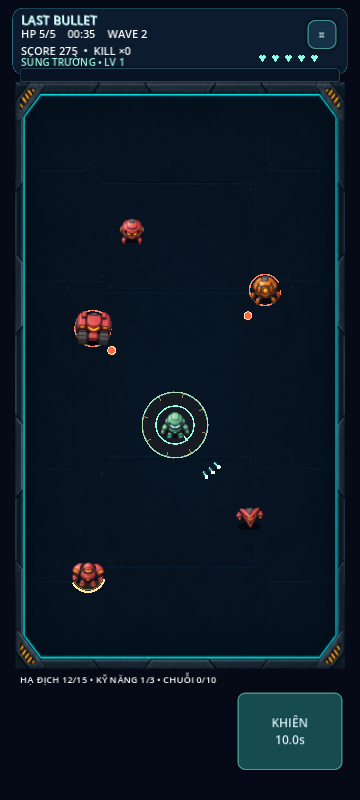
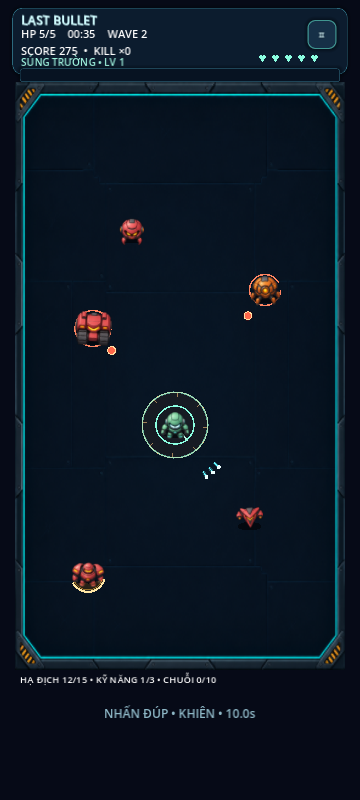
feat: hide skill button and activate robot skills with double tap

Changed region(s): [[0.4889, 0.8438, 0.9778, 0.9688], [0.275, 0.875, 0.4583, 0.9062]]

diff --git a/last-bullet/docs/SHOOTER.md b/last-bullet/docs/SHOOTER.md
@@ -1,6 +1,6 @@
 # v0.8 shooter implementation
 
-The approved change replaces permanent-bullet Deflect combat with auto-aim/auto-fire and a robot skill button. Seven weapon profiles and seven skills live in scripts/combat.gd. No Deflect/capture/return-strike path remains in live combat; scripts/bullet.gd now holds static cosmetic preview helpers only.
+The approved change replaces permanent-bullet Deflect combat with auto-aim/auto-fire and double-tap robot skills. Seven weapon profiles and seven skills live in scripts/combat.gd. No Deflect/capture/return-strike path remains in live combat; scripts/bullet.gd now holds static cosmetic preview helpers only.
 
 ## Simulation and bounds
 Friendly shots have finite range/lifetime, swept enemy/wall collision, ordered contacts, finite piercing/chaining and per-shot hit IDs. Target selection chooses the nearest visible enemy in weapon range. Chain targeting respects walls. Cobalt skill missiles turn at a capped rate and splash locally. Enemy shots use swept player/wall collision; their red/orange appearance distinguishes them from friendly rounds. Enemy ranged units and bosses have a short charge ring before firing.
@@ -19,3 +19,11 @@ Missions are kills 15, skills used 3 and kill-chain 10, each paying 15 gold+1 ti
 
 ## Validation
 Current automated suites: shooting, shooter_campaign, shooter_stress, admin_mobile, robots, summon, graphics, lobby, results, upgrade_ui. Historical Deflect-only tests moved to tests/legacy with .gdignore and are not counted as passing. Shooter stress simulates 630s across seven max-upgrade robots plus 90s Blitz; campaign exercises all five active timelines and bosses. See TEST_RESULTS.md for scope/limitations.
+
+## Double-tap skill controls (latest)
+
+Skill button removed. Two short taps in the same blank area activate the skill on second release, <=330ms apart and <=48 logical pixels apart; each contact <=220ms and <12px movement. Long holds, canceled touches, drags (including drag returning to origin), distant/slow pairs, simultaneous fingers and GUI contacts do not qualify. A second finger can double-tap while another continues dragging movement. Emulated mouse events from touch are ignored; desktop real mouse taps and Space remain supported.
+
+Only unhandled blank-area presses become tap candidates; global input observes movement/releases to cancel gestures even when they end over GUI. Pause/menu/upgrade/run transitions clear candidates so stale taps cannot carry over. Existing skill cooldown and state guards are authoritative. A passive status label shows cooldown, consumes no input, and hides outside active gameplay.
+
+New tests/double_tap.gd covers recognition, cooldown, drag/jitter/hold/cancel/time/distance rejection, simultaneous vs sequential taps, continuous movement plus second-finger skill, UI/state boundaries and emulated input. Also rechecked shooting, admin_mobile, upgrade_ui, graphics and lobby. Rendered hidden-button layout at 360×800. Physical Android gesture feel still awaits user confirmation.

diff --git a/last-bullet/docs/SESSION_HANDOFF.md b/last-bullet/docs/SESSION_HANDOFF.md
@@ -6,7 +6,7 @@ Repository tai23082004l02-svg/LAST-BULLET, branch main. Project: last-bullet/pro
 Vietnamese user, tests on Samsung S23 Ultra using Godot Android and Termux/Git. Confirmed clone/import/run and portrait worked in prior sessions. Close Godot project before pull. Local repo: ~/storage/downloads/GodotProjects/LAST-BULLET. Read ANDROID_TERMUX.md for exact commands/safe.directory fix. Do not ask them to download ZIP again. Do not reset/clean/discard their local changes to fix pull; inspect and preserve first.
 
 ## Approved gameplay change
-User found deflect gameplay boring and approved full transition to auto-aim/auto-fire survival shooter, seven robot weapons/skills, new gun upgrades and boss patterns. v0.8 implements this. Drag anywhere on blank screen to move; tap alone does nothing, 12-pixel drag threshold; special buttons excluded. Skill replaces Deflect, Space on PC. Do not restore left-only movement, tap-to-move, permanent bullet or Perfect missions.
+User found deflect gameplay boring and approved full transition to auto-aim/auto-fire survival shooter, seven robot weapons/skills, new gun upgrades and boss patterns. v0.8 implements this. Drag anywhere on blank screen to move; tap alone does nothing, 12-pixel drag threshold; special buttons excluded. Skill replaces Deflect; latest control is double-tap at the same blank area, Space on PC. The skill button has been removed. Do not restore left-only movement, tap-to-move, permanent bullet or Perfect missions.
 
 Read SHOOTER.md for exact rules, bounds and migration; README for player-facing controls/robot table. Five campaign stages and existing summon/skin/robot progress are retained. Eight new weapon upgrades. Missions: kill15, skill3, chain10. Stars: win, HP3+, finish within 60s of scheduled boss arrival. Local admin from avatar, separate save, all content, god/max-upgrades/no-skill-cooldown/labs. No server account implied.
 
@@ -28,3 +28,6 @@ Godot 4.6.3 Linux automated tests plus Xvfb/Mesa visual captures. tests/legacy c
 
 ## Next step
 Ship v0.8 to main, ask user to close Godot/pull/reopen and playtest. Gameplay tuning feedback may follow; no further unapproved feature is assumed. Older docs/previews remain historical; current README/SHOOTER.md govern combat.
+
+## Latest control request
+User asked to hide skill UI and activate by double tap. Implemented: two quick short taps in the same area use skill; normal drag-anywhere movement remains unchanged. A single tap/long hold/drag does not fire skill. A second finger may double-tap while the first keeps moving. Pause/menus/upgrades are excluded; cooldown retained. Small passive cooldown text replaces the button. See SHOOTER.md and tests/double_tap.gd. Do not reintroduce an on-screen skill button unless user asks.

diff --git a/last-bullet/README.md b/last-bullet/README.md
@@ -6,7 +6,7 @@ Godot 4 portrait robot survival shooter. Open `last-bullet/project.godot` from t
 ## Chơi trên điện thoại
 Kéo ở bất kỳ vùng trống nào để di chuyển. Chạm đơn không kích hoạt; cần ẩn xuất hiện sau khi kéo ít nhất 12 pixel logic. Robot tự chọn địch gần trong tầm có đường bắn thông thoáng và tự bắn cả khi di chuyển. Đạn bạn màu sáng; né đạn đỏ/cam và vùng báo động của địch.
 
-Bấm nút kỹ năng bên phải (Space trên PC). WASD/phím mũi tên di chuyển, Esc tạm dừng, F11 fullscreen cửa sổ desktop. Đã bỏ hoàn toàn gameplay Deflect, Perfect và viên đạn tồn tại mãi của v0.7.
+Nhấn đúp nhanh tại cùng một vùng trống để dùng kỹ năng (Space trên PC). Nút skill đã được ẩn; dòng nhỏ phía dưới chỉ báo sẵn sàng/hồi chiêu và không chặn kéo. Một lần chạm, kéo hoặc giữ lâu không kích hoạt skill. WASD/phím mũi tên di chuyển, Esc tạm dừng, F11 fullscreen cửa sổ desktop. Đã bỏ hoàn toàn gameplay Deflect, Perfect và viên đạn tồn tại mãi của v0.7.
 
 ## Robot, vũ khí và kỹ năng
 | Robot | Vũ khí | Kỹ năng |

diff --git a/README.md b/README.md
@@ -2,7 +2,7 @@
 
 Robot survival shooter for portrait mobile, Godot 4 (validated 4.6.3).
 
-**Auto-aim + auto-fire**, drag anywhere except buttons to move, one robot skill button. Replaces Deflect/permanent-bullet gameplay. Seven robot weapons/skills, eight gun upgrades, five campaign bosses, Survival/cover arenas and 90-second Blitz. Existing robots, skins, summon inventory/pity and campaign progress are retained; new shooter scores stored separately.
+**Auto-aim + auto-fire**, drag anywhere except buttons to move, double-tap robot skills. Replaces Deflect/permanent-bullet gameplay. Seven robot weapons/skills, eight gun upgrades, five campaign bosses, Survival/cover arenas and 90-second Blitz. Existing robots, skins, summon inventory/pity and campaign progress are retained; new shooter scores stored separately.
 
 [Player guide](last-bullet/README.md) · [Shooter mechanics](last-bullet/docs/SHOOTER.md) · [Campaign & Summon](last-bullet/docs/CAMPAIGN_SUMMON.md) · [Tests](last-bullet/docs/TEST_RESULTS.md)
 

diff --git a/last-bullet/docs/TEST_RESULTS.md b/last-bullet/docs/TEST_RESULTS.md
@@ -1,3 +1,9 @@
+# Double-tap control patch — 2026-11-05
+
+Skill button removed; skill activated by two sequential short taps on blank screen. New tests/double_tap.gd passes timing/distance/hold/drag/cancel/cooldown/multitouch/GUI/state/emulated-mouse cases. Shooting, admin_mobile, upgrade_ui, graphics and lobby regressions rechecked. The suite list below describes the v0.8 baseline; double_tap is now the eleventh suite. Rendered 360×800 layout reviewed; physical-device gesture feel not yet verified.
+
+---
+
 # v0.8.0 validation — 2026-11-05
 
 Godot 4.6.3 Linux Compatibility. Current shooter replaces the v0.7 permanent-bullet rules. Ten current suites pass:
